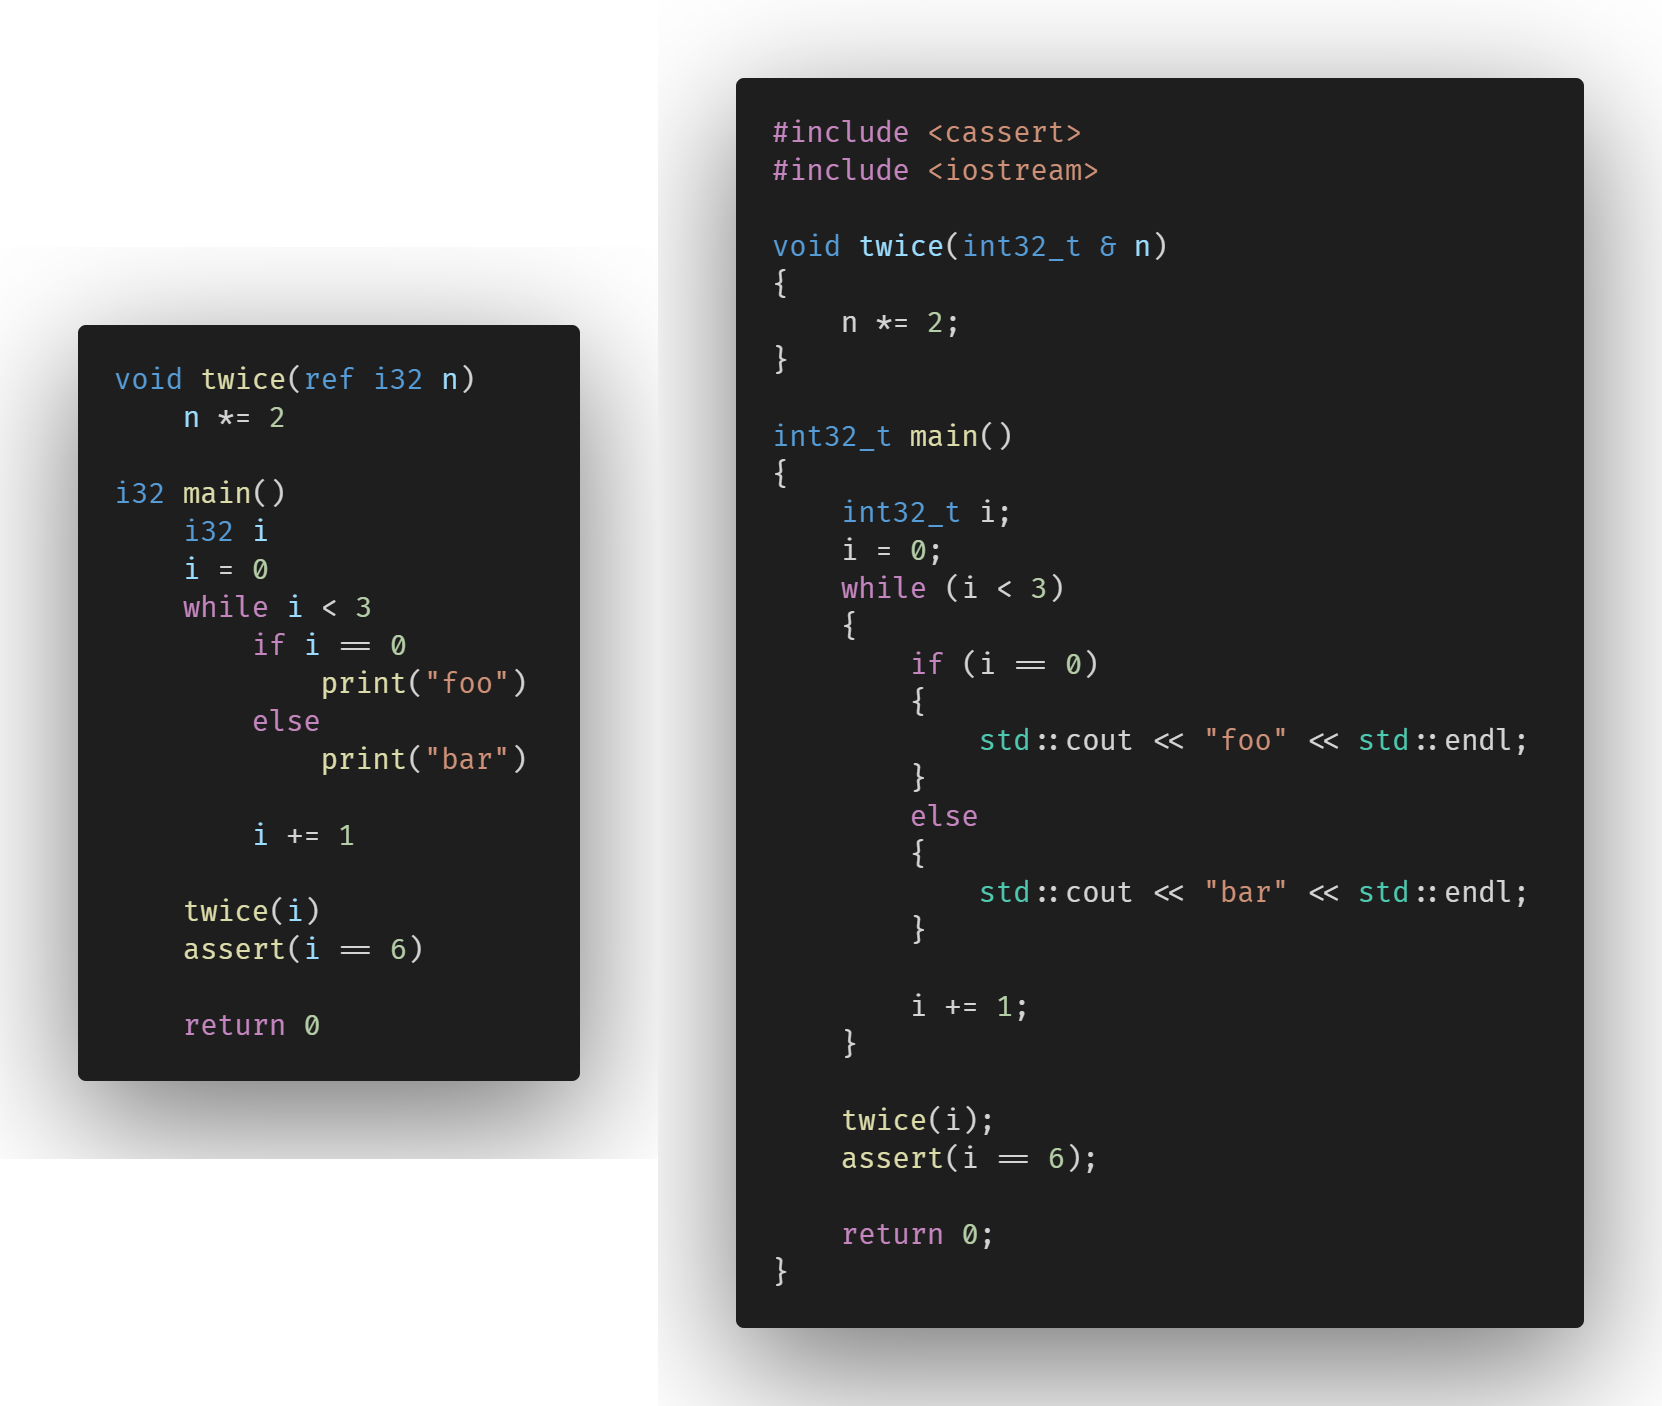
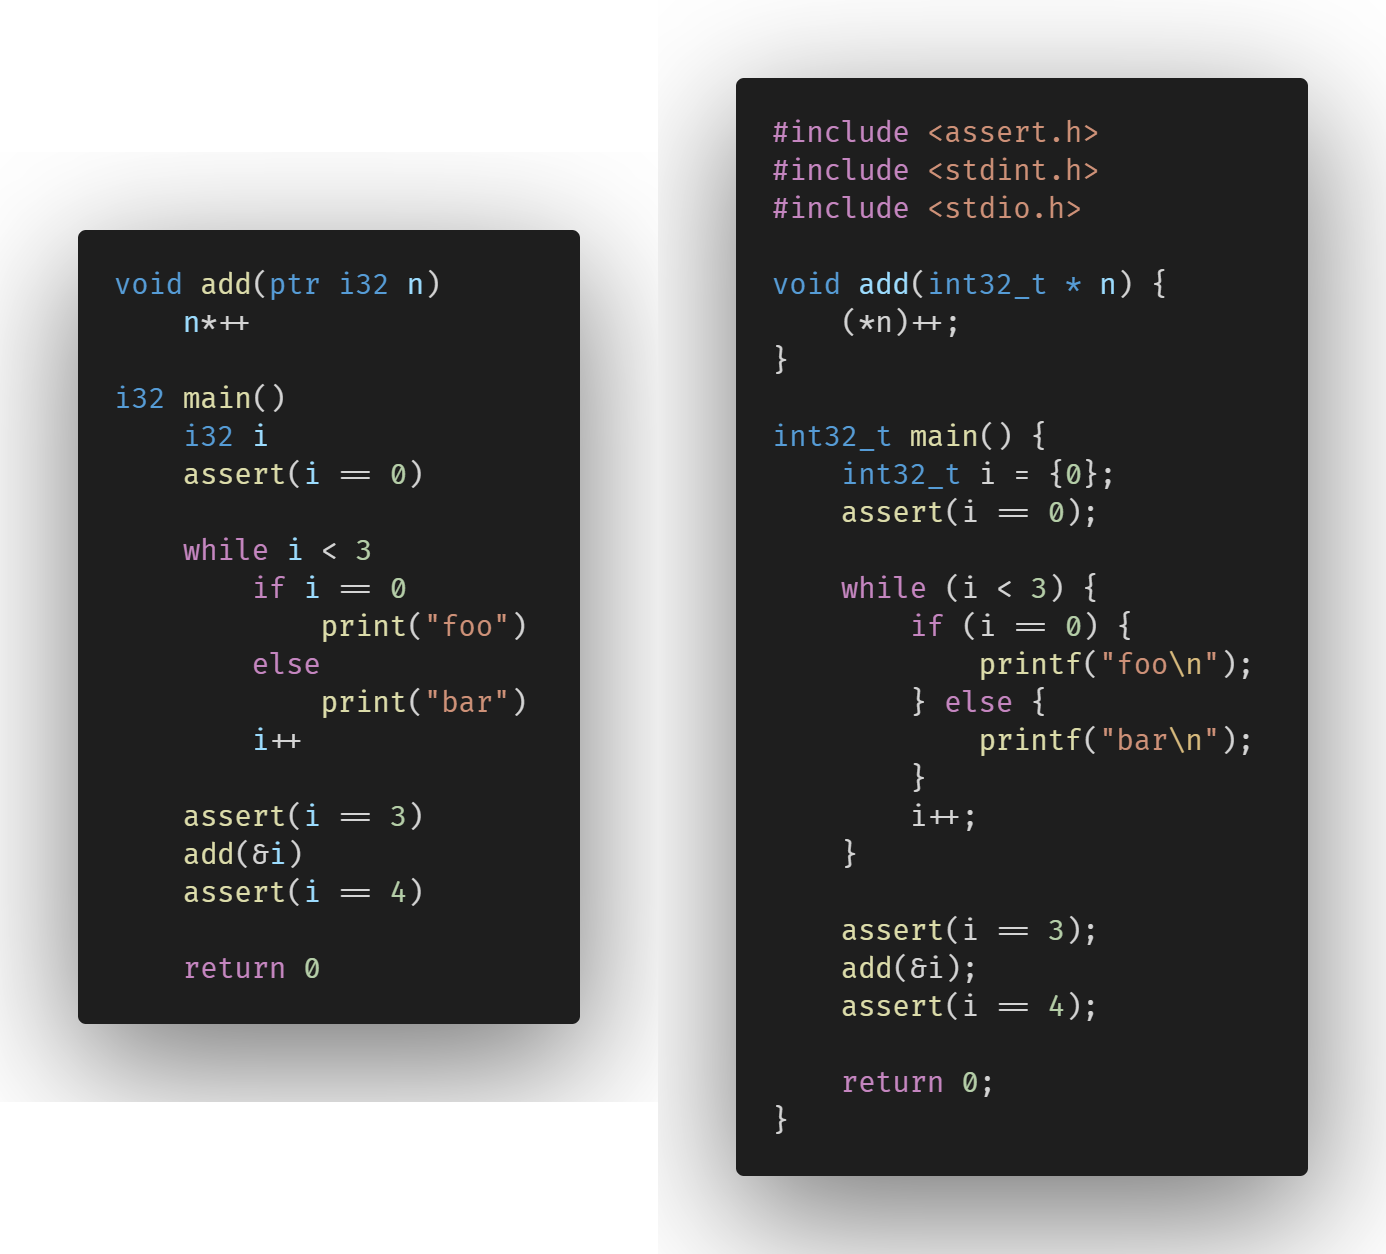
Let test "basic" use ptr

diff --git a/tests/basic/main.cpp b/tests/basic/main.cpp
@@ -1,31 +1,27 @@
-#include <cassert>
-#include <iostream>
+#include <assert.h>
+#include <stdint.h>
+#include <stdio.h>
 
-void doubling(int32_t & n)
-{
-    n *= 2;
+void add(int32_t * n) {
+    (*n)++;
 }
 
-int32_t main()
-{
-	int32_t i;
-	i = 0;
-	while (i < 3)
-	{
-		if (i == 0)
-		{
-			std::cout << "foo" << std::endl;
-		}
-		else
-		{
-			std::cout << "bar" << std::endl;
-		}
+int32_t main() {
+	int32_t i = {0};
+	assert(i == 0);
 
-		i += 1;
+	while (i < 3) {
+		if (i == 0) {
+			printf("foo\n");
+		} else {
+			printf("bar\n");
+		}
+		i++;
 	}
 
-	doubling(i);
-	assert(i == 6);
+	assert(i == 3);
+	add(&i);
+	assert(i == 4);
 
 	return 0;
 }
